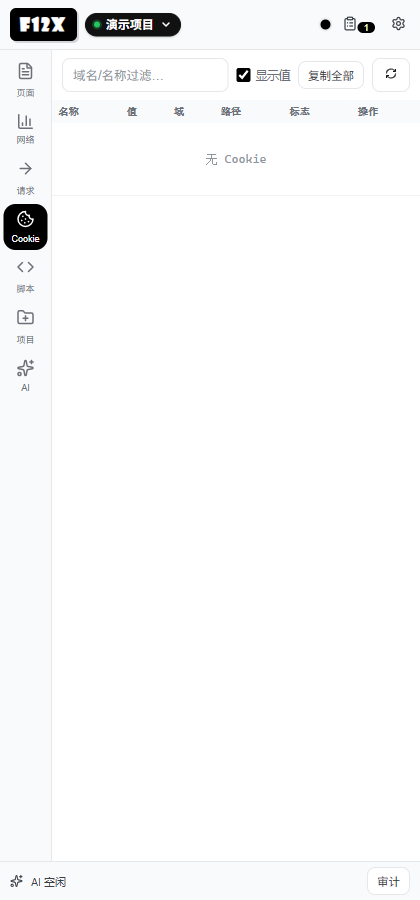
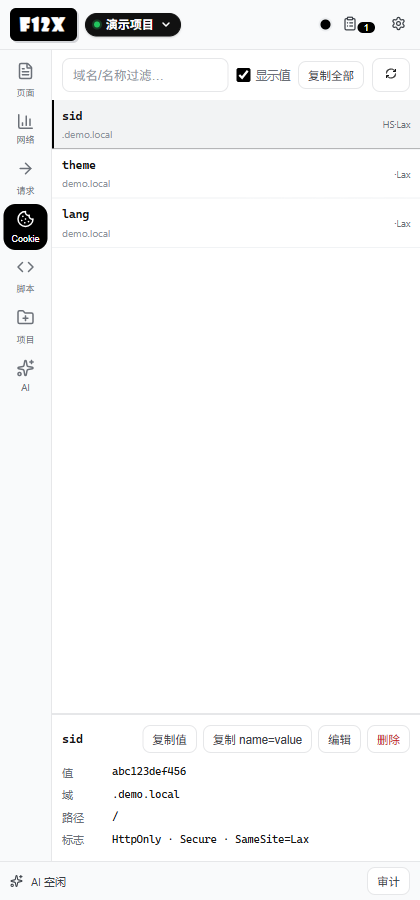
feat: 网络 / Cookie 改为主从视图（列表标识 + 详情）
- 网络：默认列收敛为 方法/状态/URL（旧默认列自动迁移，仍可在「列」菜单加回）；详情顶部新增「常规」块（完整 URL + 复制、方法、状态码、类型、大小、来源），向 DevTools Headers 对齐
- Cookie：表格改为「标识列表 + 下方详情」——列表只显示 名称/域/标志，点击行选中；详情显示完整值（自动换行，点击复制）、域、路径、标志，以及 复制值 / 复制 name=value / 编辑 / 删除
- 保留 URL 单元格 ⧉ 复制、详情「复制 URL」、Cookie「复制全部」
- capture_manual 适配：详情截图补「常规」块、Cookie 截图先等 loadCookies 再注入演示数据
验证：dev/run.mjs 76/76；p33：常规块 6 行、URL 复制成功、Cookie 列表 1 行/详情可见/完整值可复制/掩码可复制/复制全部成功；p6/p8 回归通过，0 pageerror；手册与 02/03/10 截图同步。

diff --git a/sidepanel/panel.js b/sidepanel/panel.js
@@ -177,7 +177,7 @@ const app = {
     filter: { url: "", method: "", status: "", domain: "", type: "" }, sort: null, sortDir: 1,
     searchIds: null, // 元数据搜索命中的 id 集（network:metadata_search 结果）
     page: 1, pageSize: 50, // 14.2 定稿：表格分页 50/页
-    columns: ["method", "status", "url", "type", "size", "src"], // 列配置（默认集）
+    columns: ["method", "status", "url"], // 默认只看标识列；类型/大小/来源在详情「常规」
     consoleLogs: []
   },
   rep: { lastResponse: null, history: [], prevBody: "" },
@@ -642,10 +642,14 @@ function initNetworkModule() {
   });
   // 列配置（持久化 networkColumns）
   chrome.storage.local.get({ networkColumns: null }, (cfg) => {
-    if (Array.isArray(cfg.networkColumns) && cfg.networkColumns.length) {
-      app.network.columns = cfg.networkColumns;
-      document.querySelectorAll("#net-cols-menu input[data-col]").forEach(c => { c.checked = app.network.columns.includes(c.dataset.col); });
+    const OLD_DEFAULT = ["method", "status", "url", "type", "size", "src"];
+    const NEW_DEFAULT = ["method", "status", "url"];
+    const saved = Array.isArray(cfg.networkColumns) ? cfg.networkColumns : null;
+    if (saved && saved.length) {
+      const isOldDefault = saved.length === OLD_DEFAULT.length && OLD_DEFAULT.every((k, i) => saved[i] === k);
+      app.network.columns = isOldDefault ? NEW_DEFAULT : saved;
     }
+    document.querySelectorAll("#net-cols-menu input[data-col]").forEach(c => { c.checked = app.network.columns.includes(c.dataset.col); });
   });
   $("net-cols-btn").addEventListener("click", (e) => {
     e.stopPropagation();
@@ -810,14 +814,26 @@ function ensureDetailActions(item) {
     actions.className = "net-detail-actions";
     $("net-detail-tabs").parentNode.insertBefore(actions, $("net-detail-tabs"));
   }
-  let urlBar = document.querySelector("#net-detail .net-detail-url");
-  if (!urlBar) {
-    urlBar = document.createElement("div");
-    urlBar.className = "net-detail-url";
-    urlBar.title = "完整 URL（可选中复制）";
-    $("net-detail-tabs").parentNode.insertBefore(urlBar, actions);
+  let general = document.querySelector("#net-detail .net-detail-general");
+  if (!general) {
+    general = document.createElement("div");
+    general.className = "net-detail-general";
+    $("net-detail-tabs").parentNode.insertBefore(general, $("net-detail-tabs"));
   }
-  urlBar.textContent = item ? (item.url || "") : "";
+  const ndg = (k, v, cls) => `<div class="ndg-row"><span class="ndg-k">${k}</span><span class="ndg-v ${cls || ""}">${v}</span></div>`;
+  if (item) {
+    const st = item.status;
+    general.innerHTML = `<div class="ndg-row"><span class="ndg-k">请求网址</span><span class="ndg-v ndg-url">${esc(item.url || "")}</span><button class="mini-btn" data-ndg="copy" title="复制完整 URL">复制</button></div>`
+      + ndg("请求方法", esc(item.method || "-"))
+      + ndg("状态代码", st ? `<span class="ndg-st ${st >= 200 && st < 300 ? "ok" : st >= 400 ? "err" : ""}">${esc(String(st))}</span>` : "-")
+      + ndg("类型", esc(item.type || "-"))
+      + ndg("大小", esc(item.size != null ? String(item.size) + " B" : "-"))
+      + ndg("来源", esc(item.source || "page") + (item.intercepted ? " ⚡" : ""));
+    const cp = general.querySelector('[data-ndg="copy"]');
+    if (cp) cp.addEventListener("click", () => copyText(item.url, "已复制 URL"));
+  } else {
+    general.innerHTML = "";
+  }
   if (item) {
     actions.innerHTML = `
       <button class="mini-btn" data-st="copyurl" title="复制完整 URL">复制 URL</button>
@@ -1373,46 +1389,72 @@ function maskVal(v) {
   return v.substring(0, 4) + "****";
 }
 
+let cookieSelected = ""; // domain|name
+
+function cookieKey(c) { return String(c.domain || "") + "|" + String(c.name || ""); }
+
 function renderCookies() {
   const showValues = !!$("cookie-show-values").checked;
   const f = $("cookie-filter").value.toLowerCase();
   const items = cookieData.filter(c => !f || (c.name + c.domain).toLowerCase().includes(f));
   const wrap = $("cookie-table-wrap");
-  wrap.innerHTML = `<table class="cookie-table"><thead><tr><th>名称</th><th>值</th><th>域</th><th>路径</th><th>标志</th><th>操作</th></tr></thead><tbody>
-    ${items.map(c => `<tr>
-      <td>${esc(c.name)}</td>
-      <td class="val cookie-val${showValues ? " val-full" : ""}" data-full="${esc(c.value ?? "")}" title="${showValues ? "点击复制完整值" : "点击复制完整值（当前掩码显示）"}">${esc(showValues ? (c.value || "") : maskVal(c.value))}</td>
-      <td>${esc(c.domain)}</td>
-      <td>${esc(c.path)}</td>
-      <td>${c.httpOnly ? "H" : ""}${c.secure ? "S" : ""}${c.sameSite ? "·" + esc(c.sameSite) : ""}</td>
-      <td>
-        <button class="mini-btn" data-copy="${esc(c.name)}" title="复制完整值">复制</button>
-        <button class="mini-btn" data-edit="${esc(c.name)}">编辑</button>
-        <button class="mini-btn" data-del="${esc(c.name)}">删除</button>
-      </td>
-    </tr>`).join("") || '<tr><td colspan="6"><div class="placeholder">无 Cookie</div></td></tr>'}
-  </tbody></table>`;
-  wrap.querySelectorAll('[data-edit]').forEach(b => b.addEventListener("click", () => {
-    const c = cookieData.find(x => x.name === b.dataset.edit);
-    if (c) editCookie(c);
+  const detail = $("cookie-detail");
+  if (!items.length) {
+    wrap.innerHTML = '<div class="placeholder">无 Cookie</div>';
+    if (detail) { detail.classList.add("hidden"); detail.innerHTML = ""; }
+    return;
+  }
+  if (!items.some(c => cookieKey(c) === cookieSelected)) cookieSelected = cookieKey(items[0]);
+  wrap.innerHTML = items.map(c => {
+    const key = cookieKey(c);
+    const flags = [c.httpOnly ? "H" : "", c.secure ? "S" : "", c.sameSite ? "·" + c.sameSite : ""].join("");
+    return `<div class="cookie-row ${key === cookieSelected ? "active" : ""}" data-key="${esc(key)}">
+      <div class="cr-main"><span class="cr-name">${esc(c.name)}</span><span class="cr-domain">${esc(c.domain)}</span></div>
+      <span class="cr-flags">${esc(flags)}</span>
+    </div>`;
+  }).join("");
+  wrap.querySelectorAll(".cookie-row").forEach(el => el.addEventListener("click", () => {
+    cookieSelected = el.dataset.key;
+    wrap.querySelectorAll(".cookie-row").forEach(x => x.classList.toggle("active", x.dataset.key === cookieSelected));
+    renderCookieDetail();
   }));
-  // 点击值复制（掩码与否都可复制真实值）
-  wrap.querySelectorAll(".cookie-val").forEach(el => {
-    el.title = "点击复制完整值";
-    el.addEventListener("click", () => copyText(el.dataset.full || "", "已复制 Cookie 值"));
-  });
-  wrap.querySelectorAll("[data-copy]").forEach(b => b.addEventListener("click", () => {
-    const c = cookieData.find(x => x.name === b.dataset.copy);
-    if (c) copyText(c.value || "", "已复制 Cookie「" + c.name + "」");
-  }));
-  wrap.querySelectorAll('[data-del]').forEach(b => b.addEventListener("click", async () => {
-    const c = cookieData.find(x => x.name === b.dataset.del);
-    if (!c) return;
-    const url = "https://" + c.domain.replace(/^\./, "") + c.path;
-    const r = await api("cookie:remove", { cookie: { name: c.name, url } });
-    toast(r.ok ? "已删除" : "删除失败：" + r.error);
-    if (r.ok) loadCookies();
-  }));
+  renderCookieDetail();
+}
+
+function renderCookieDetail() {
+  const d = $("cookie-detail");
+  if (!d) return;
+  const showValues = !!$("cookie-show-values").checked;
+  const c = cookieData.find(x => cookieKey(x) === cookieSelected);
+  if (!c) { d.classList.add("hidden"); d.innerHTML = ""; return; }
+  const val = c.value || "";
+  const shown = showValues ? val : maskVal(val);
+  const flags = [c.httpOnly ? "HttpOnly" : "", c.secure ? "Secure" : "", c.sameSite ? "SameSite=" + c.sameSite : ""].filter(Boolean).join(" · ") || "—";
+  d.classList.remove("hidden");
+  d.innerHTML = `<div class="cd-head"><span class="cd-title">${esc(c.name)}</span>
+      <span class="cd-actions">
+        <button class="mini-btn" data-cd="copyval">复制值</button>
+        <button class="mini-btn" data-cd="copyline">复制 name=value</button>
+        <button class="mini-btn" data-cd="edit">编辑</button>
+        <button class="mini-btn danger" data-cd="del">删除</button>
+      </span></div>
+    <div class="cd-row"><span class="cd-k">值</span><span class="cd-v cd-value${showValues ? " cd-full" : ""}" data-full="${esc(val)}" title="点击复制完整值">${esc(shown)}</span></div>
+    <div class="cd-row"><span class="cd-k">域</span><span class="cd-v">${esc(c.domain)}</span></div>
+    <div class="cd-row"><span class="cd-k">路径</span><span class="cd-v">${esc(c.path)}</span></div>
+    <div class="cd-row"><span class="cd-k">标志</span><span class="cd-v">${esc(flags)}</span></div>
+    ${showValues ? "" : '<div class="cd-hint">当前为掩码显示；勾选「显示值」可明文查看（复制始终可用）</div>'}`;
+  d.querySelector('[data-cd="copyval"]').addEventListener("click", () => copyText(val, "已复制 Cookie 值"));
+  d.querySelector('[data-cd="copyline"]').addEventListener("click", () => copyText(c.name + "=" + val, "已复制 name=value"));
+  d.querySelector('[data-cd="edit"]').addEventListener("click", () => editCookie(c));
+  d.querySelector('[data-cd="del"]').addEventListener("click", () => deleteCookie(c));
+  d.querySelector(".cd-value").addEventListener("click", () => copyText(val, "已复制 Cookie 值"));
+}
+
+async function deleteCookie(c) {
+  const url = "https://" + c.domain.replace(/^\./, "") + c.path;
+  const r = await api("cookie:remove", { cookie: { name: c.name, url } });
+  toast(r.ok ? "已删除" : "删除失败：" + r.error);
+  if (r.ok) loadCookies();
 }
 
 function editCookie(c) {

diff --git a/sidepanel/styles.css b/sidepanel/styles.css
@@ -1877,3 +1877,41 @@ body {
   position: sticky; right: 0; background: var(--surface-1); z-index: 2;
   box-shadow: -4px 0 6px rgba(0, 0, 0, .05);
 }
+
+/* 网络详情「常规」块（DevTools Headers 风格） */
+.net-detail-general {
+  flex: none; padding: 6px 8px; border-bottom: 1px solid var(--surface-4);
+  background: var(--surface-1); font-size: 11px; max-height: 40%; overflow: auto;
+}
+.ndg-row { display: flex; align-items: flex-start; gap: 8px; padding: 2px 0; }
+.ndg-k { flex: none; width: 64px; color: var(--text-3); }
+.ndg-v { flex: 1; min-width: 0; color: var(--text-1); word-break: break-all; user-select: text; }
+.ndg-url { font-family: var(--mono); font-size: 10.5px; }
+.ndg-st.ok { color: #1a7f37; font-weight: 600; }
+.ndg-st.err { color: #d1242f; font-weight: 600; }
+
+/* Cookie：列表（标识）+ 下方详情（全部字段） */
+#cookie-table-wrap { flex: 1; min-height: 0; overflow: auto; }
+.cookie-row {
+  display: flex; align-items: center; gap: 8px; padding: 7px 10px;
+  border-bottom: 1px solid var(--surface-3); cursor: pointer;
+}
+.cookie-row:hover { background: var(--surface-2); }
+.cookie-row.active { background: var(--acc-bg); box-shadow: inset 2px 0 0 var(--brand, #4176e6); }
+.cr-main { flex: 1; min-width: 0; display: flex; flex-direction: column; gap: 2px; }
+.cr-name { font-family: var(--mono); font-size: 11.5px; font-weight: 600; overflow: hidden; text-overflow: ellipsis; white-space: nowrap; }
+.cr-domain { font-size: 10px; color: var(--text-4); overflow: hidden; text-overflow: ellipsis; white-space: nowrap; }
+.cr-flags { flex: none; font-size: 9.5px; color: var(--text-3); }
+.cookie-detail {
+  flex: none; border-top: 2px solid var(--surface-4); padding: 10px;
+  max-height: 48%; overflow: auto; background: var(--surface-1);
+}
+.cd-head { display: flex; align-items: center; gap: 8px; margin-bottom: 8px; }
+.cd-title { flex: 1; min-width: 0; font-family: var(--mono); font-weight: 600; font-size: 12px; overflow: hidden; text-overflow: ellipsis; white-space: nowrap; }
+.cd-actions { display: flex; gap: 6px; flex-wrap: wrap; }
+.cd-row { display: flex; gap: 8px; padding: 3px 0; font-size: 11px; }
+.cd-k { flex: none; width: 42px; color: var(--text-3); }
+.cd-v { flex: 1; min-width: 0; font-family: var(--mono); font-size: 10.5px; word-break: break-all; user-select: text; }
+.cd-value { cursor: copy; }
+.cd-value:hover { color: var(--brand, #4176e6); }
+.cd-hint { margin-top: 5px; font-size: 10px; color: var(--text-4); }

diff --git a/sidepanel/index.html b/sidepanel/index.html
@@ -244,6 +244,7 @@
             <button id="cookie-refresh" class="ctrl-btn"><span data-icon="refresh-cw" data-size="12"></span></button>
           </div>
           <div id="cookie-table-wrap"></div>
+          <div id="cookie-detail" class="cookie-detail hidden"></div>
         </section>
 
         <!-- ===== 脚本模块 ===== -->
